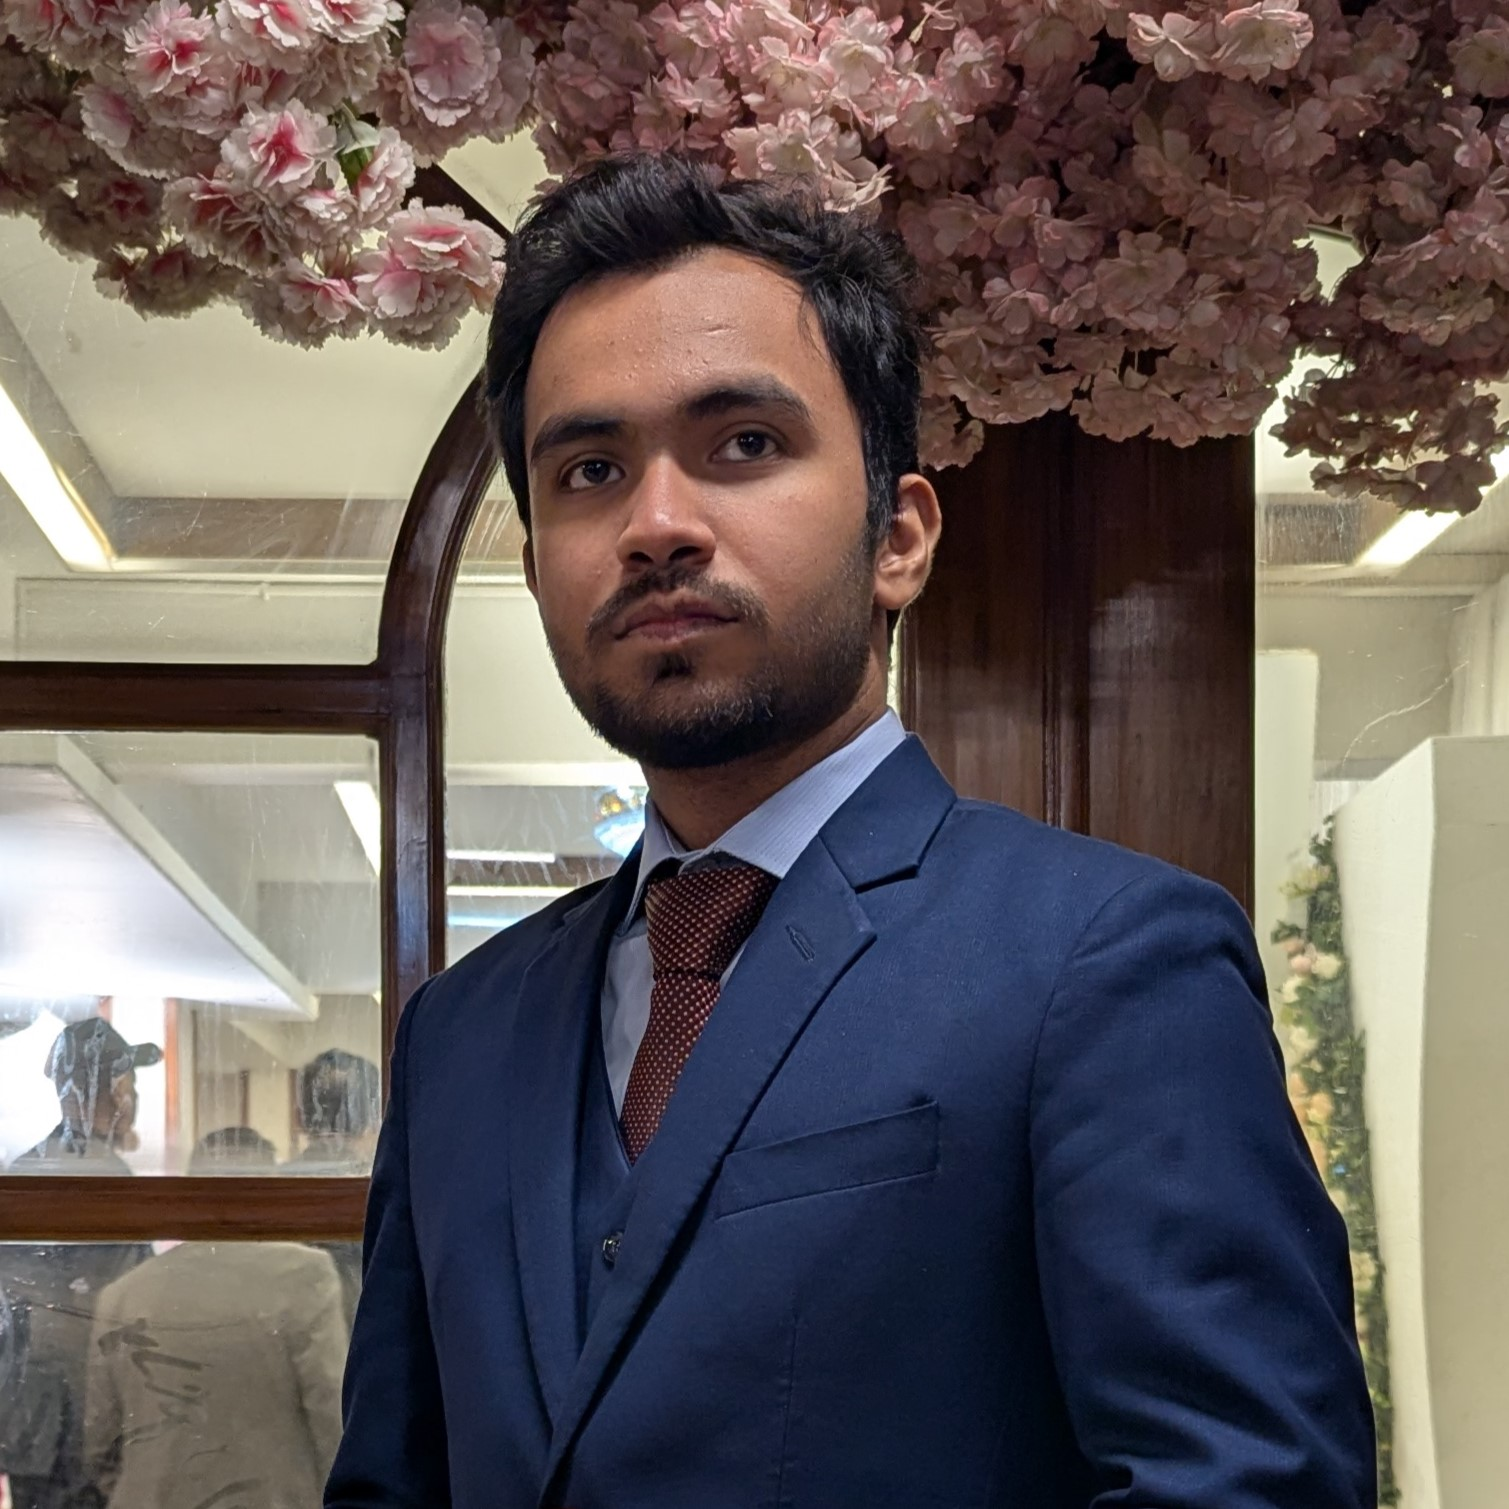
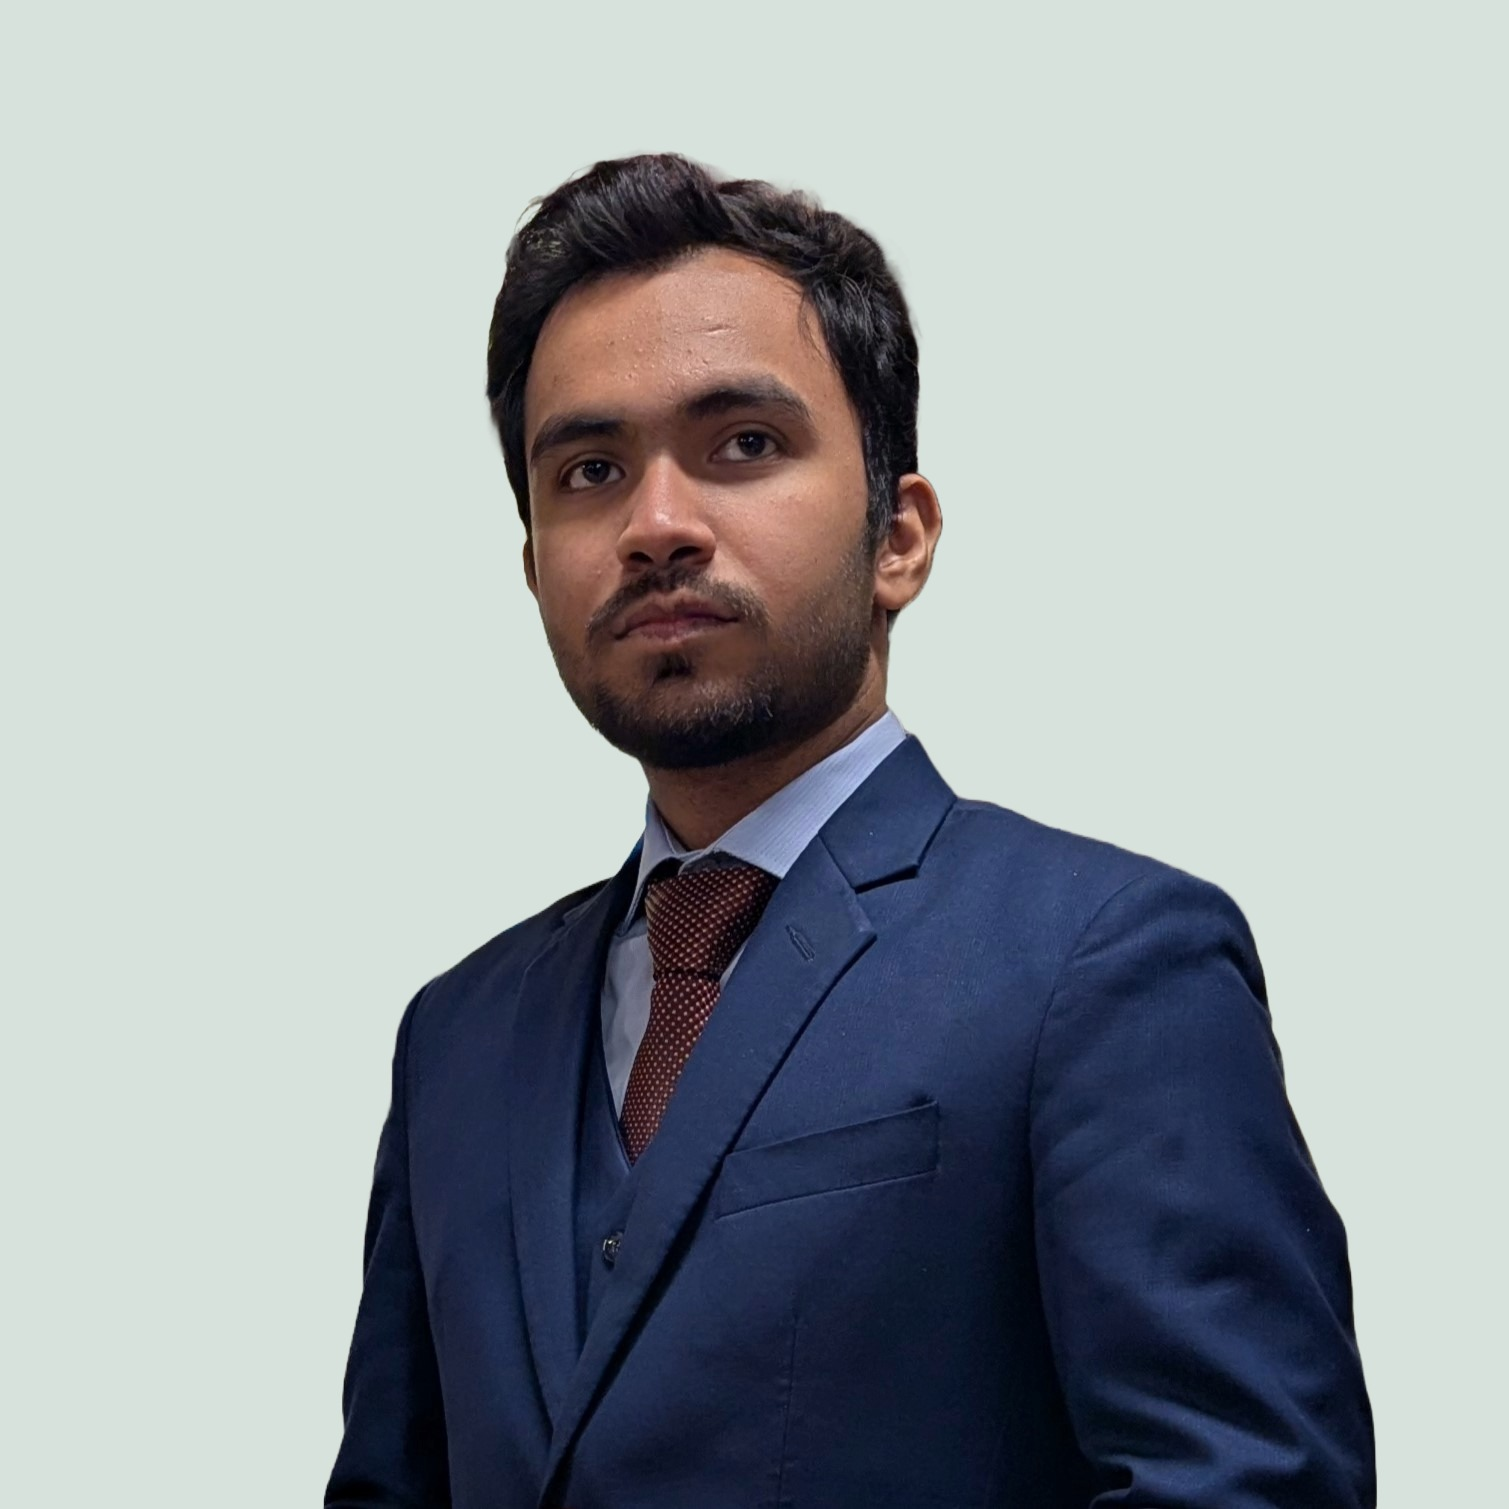
writings, profile pic, SEO, and sidebar visuals.

diff --git a/index.html b/index.html
@@ -20,24 +20,24 @@
     <link rel="icon" href="icons/free_icon.png" type="image/png">
 
     <script type="application/ld+json">
-    {
-      "@context": "https://schema.org",
-      "@type": "Person",
-      "name": "Md. Monowarul Islam Shraban",
-      "url": "https://mi-shraban.github.io",
-      "image": "https://mi-shraban.github.io/photos/profile.jpg",
-      "sameAs": [
-        "https://www.linkedin.com/in/md-monowarul-islam-b7657b341/",
-        "https://github.com/mi-shraban",
-        "https://codeforces.com/profile/xordan.-"
-      ],
-      "alumniOf": "American International University-Bangladesh",
-      "jobTitle": "Computer Science Student",
-      "worksFor": {
-        "@type": "Organization",
-        "name": "American International University-Bangladesh"
-      }
-    }
+        {
+          "@context": "https://schema.org",
+          "@type": "Person",
+          "name": "Md. Monowarul Islam Shraban",
+          "url": "https://mi-shraban.github.io",
+          "image": "https://mi-shraban.github.io/photos/profile.jpg",
+          "sameAs": [
+            "https://www.linkedin.com/in/md-monowarul-islam-b7657b341/",
+            "https://github.com/mi-shraban",
+            "https://codeforces.com/profile/xordan.-"
+          ],
+          "alumniOf": "Brac University",
+          "jobTitle": "Computer Science Student",
+          "worksFor": {
+            "@type": "Organization",
+            "name": "Brac University"
+          }
+        }
     </script>
 
 </head>
@@ -46,7 +46,7 @@
         <div class="sidebar">
             <br>
             <div class="profile-header">
-                <img src="photos/profile.jpg" alt="Profile Picture" class="profile-picture">
+                <img src="photos/profile.png" alt="Profile Picture" class="profile-picture">
             </div>
             <br>
             <h1>MD. MONOWARUL ISLAM<br><small>Computer Science Student</small></h1>

diff --git a/aboutme.html b/aboutme.html
@@ -2,8 +2,8 @@
     <h2>About Me</h2>
     <p>Hello there! This is Monowarul Islam, you can also call me Shraban. I am a final
         year Computer Science student at <a href="https://bracu.ac.bd" class="ab_link" target="_blank">Brac
-        University</a>, Dhaka. I enjoy solving competitive programming problems on codeforces in my free time,
-        you can view my solution codes by clicking <a href="CFsolves.html" class="ab_link" target="_blank">here</a>.
+        University</a>, Dhaka. I enjoy solving competitive programming problems on codeforces in my free time.
+        I have solved over <a href="CFsolves.html" class="ab_link" target="_blank">270 problems</a> on Codeforces.
         In the academic side, my research interests include data science, machine learning and deep learning.
         I have also gained experience by working on a few projects which required me to study about Machine
         Learning (<i>Scikit-Learn, TensorFlow</i>), Robotics (<i>ESP32, Arduino Uno, C++</i>) and Web

diff --git a/styles.css b/styles.css
@@ -60,18 +60,20 @@ a:hover {
     border: 3px solid #00bcd4;
     object-fit: cover;
     display: block;
+    background: #d8e2dc;
 }
 
 .sidebar h1 {
     font-size: 24px;
     text-align: center;
     margin-bottom: 20px;
+    color: #d8e2dc;
 }
 
 .sidebar h1 small {
     font-size: 16px;
     display: inline;
-    color: #b0b0b0;
+    color: #d8e2dc;
 }
 
 .sidebar nav a {
@@ -79,7 +81,7 @@ a:hover {
     padding: 12px 15px;
     margin-bottom: 10px;
     border-radius: 8px;
-    color: #e0e0e0;
+    color: #d8e2dc;
     font-weight: 500;
     transition: background-color 0.3s ease, color 0.3s ease;
 }
